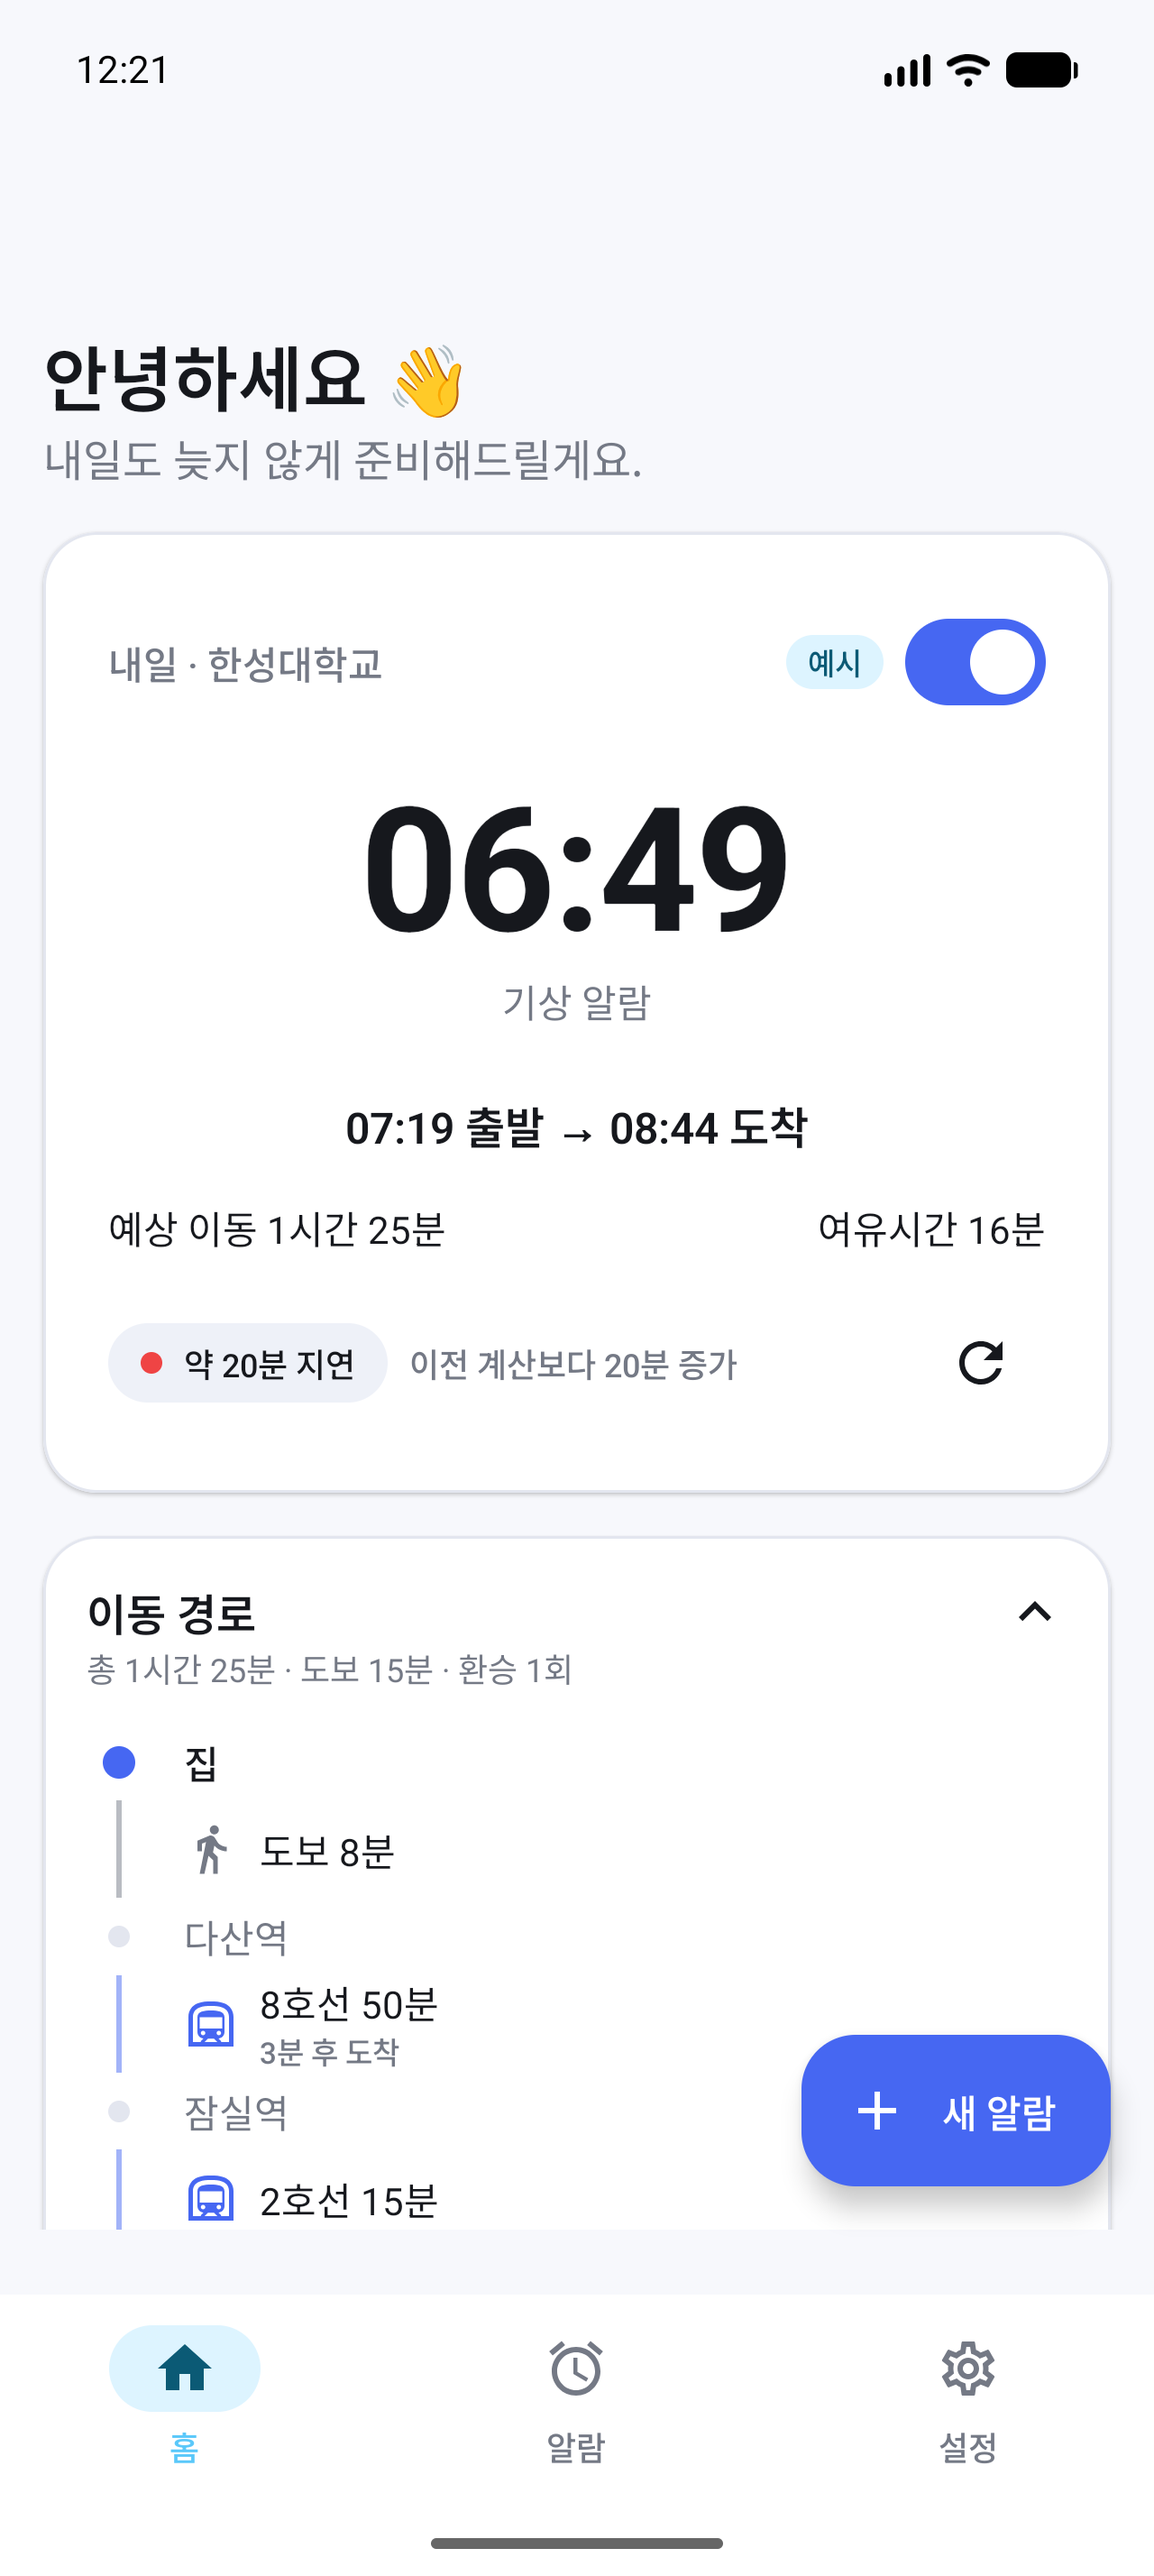
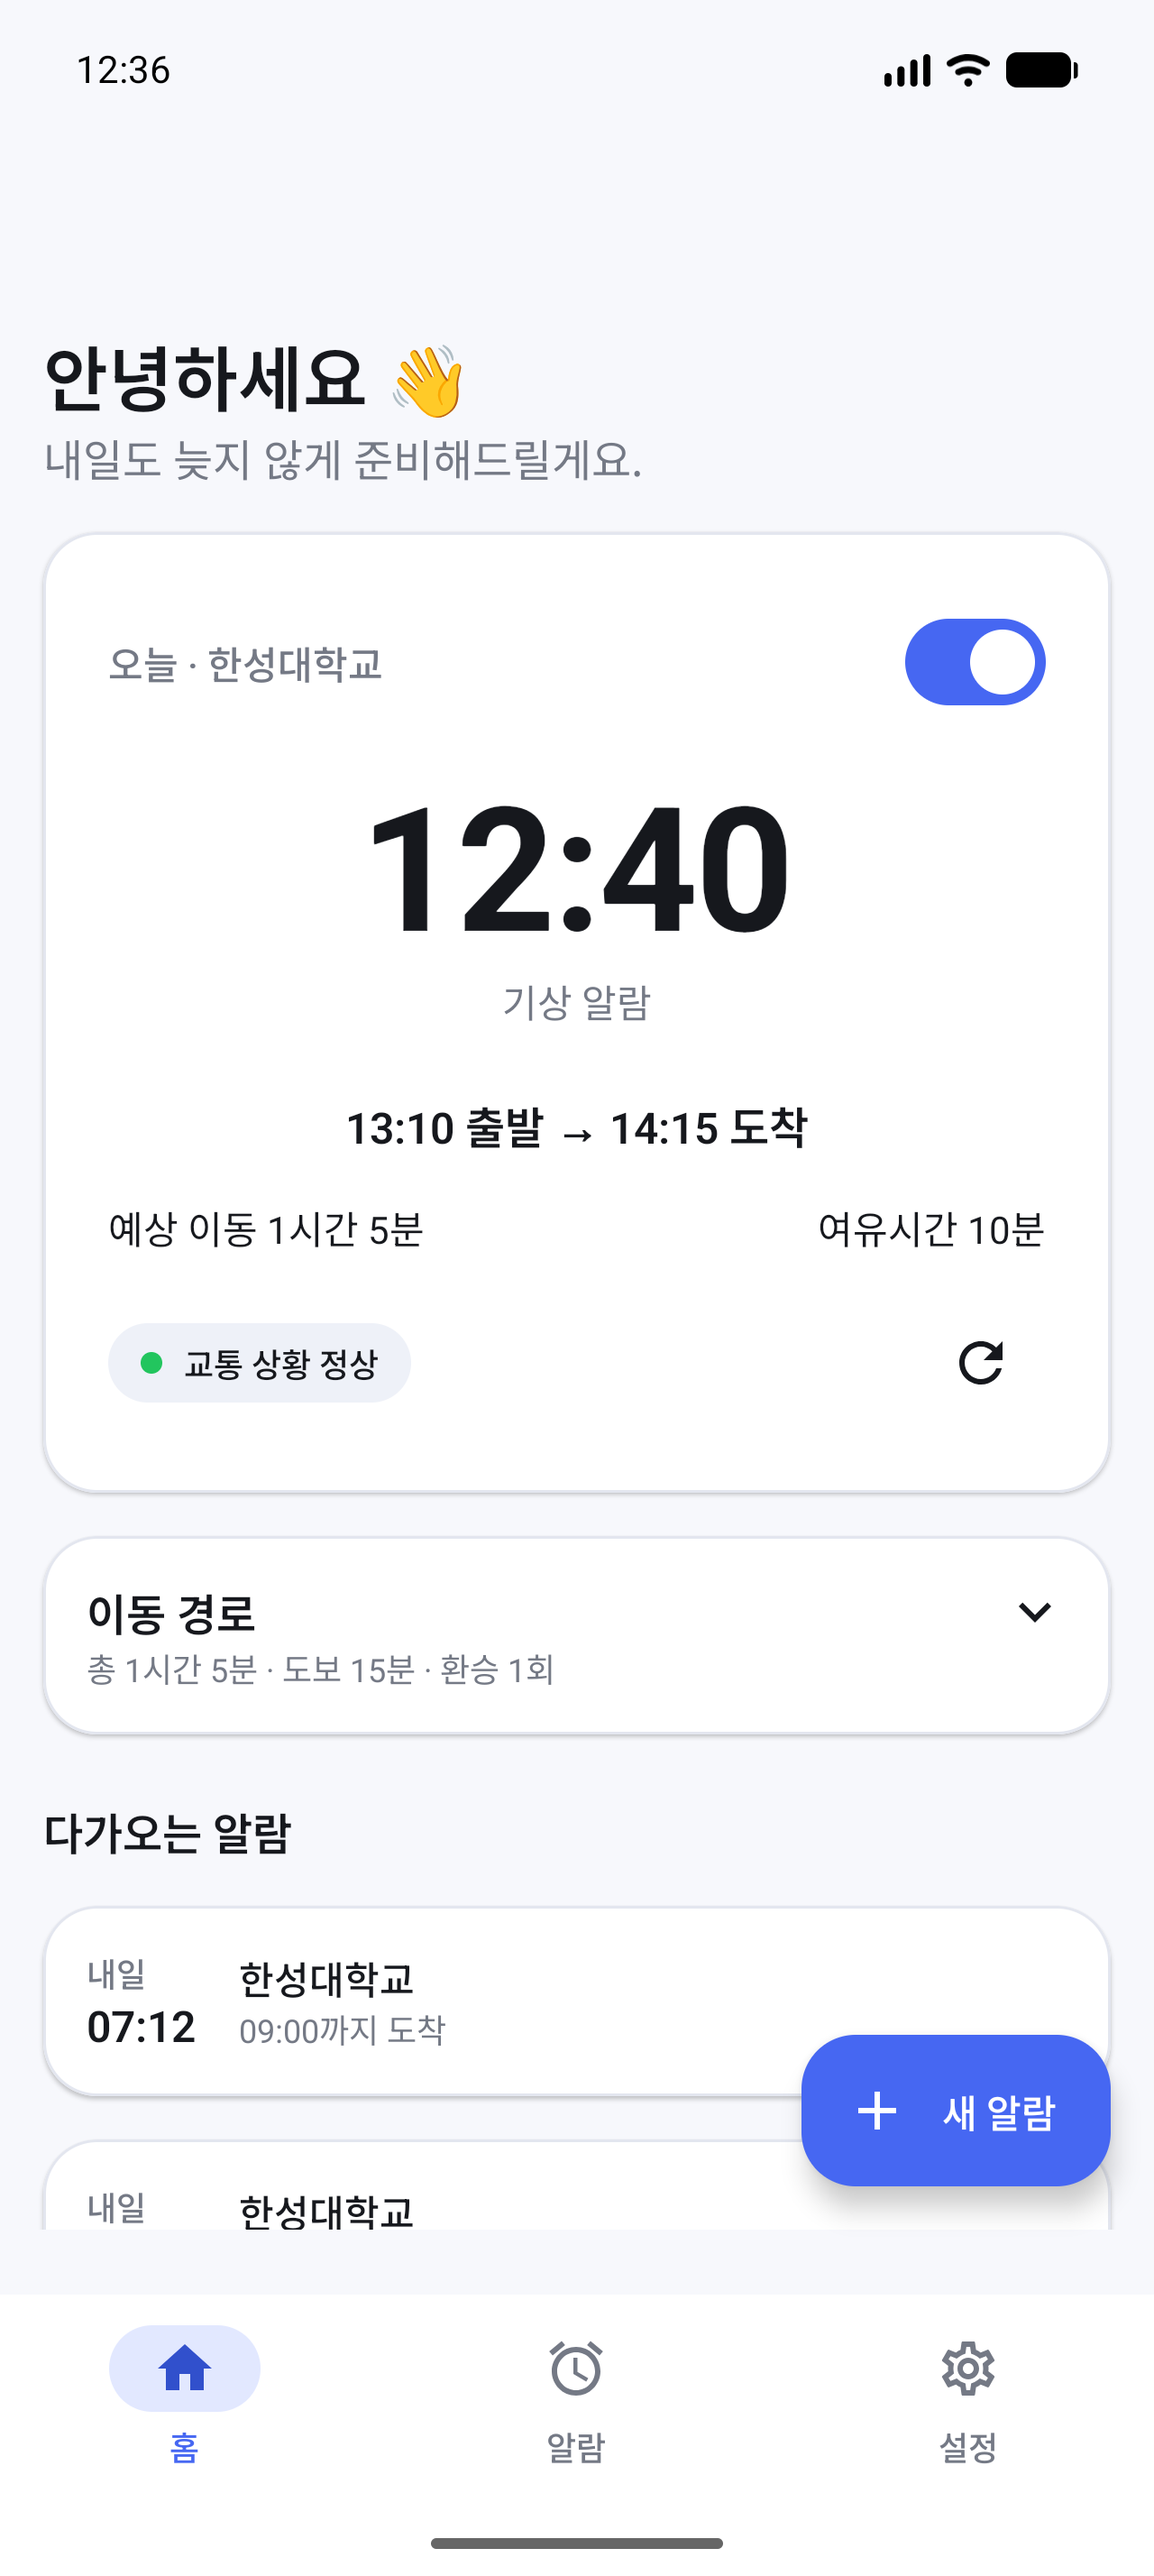
알람 화면 버튼 색상, 업데이트 직후 Splash 고정 문제 수정; 스크린샷 추가

diff --git a/app/src/main/java/com/example/routealarm/alarm/service/AlarmRingingActivity.kt b/app/src/main/java/com/example/routealarm/alarm/service/AlarmRingingActivity.kt
@@ -20,8 +20,13 @@ import androidx.compose.foundation.layout.padding
 import androidx.compose.foundation.layout.size
 import androidx.compose.material.icons.Icons
 import androidx.compose.material.icons.outlined.Alarm
+import androidx.compose.foundation.BorderStroke
+import androidx.compose.foundation.layout.height
+import androidx.compose.material3.Button
+import androidx.compose.material3.ButtonDefaults
 import androidx.compose.material3.Icon
 import androidx.compose.material3.MaterialTheme
+import androidx.compose.material3.OutlinedButton
 import androidx.compose.material3.Text
 import androidx.compose.runtime.Composable
 import androidx.compose.runtime.LaunchedEffect
@@ -34,8 +39,6 @@ import androidx.compose.ui.text.style.TextAlign
 import androidx.compose.ui.unit.dp
 import androidx.lifecycle.compose.collectAsStateWithLifecycle
 import com.example.routealarm.R
-import com.example.routealarm.core.designsystem.component.PrimaryButton
-import com.example.routealarm.core.designsystem.component.SecondaryButton
 import com.example.routealarm.core.designsystem.theme.RouteAlarmTheme
 import com.example.routealarm.core.designsystem.theme.Spacing
 import com.example.routealarm.presentation.common.TimeFormat
@@ -124,16 +127,27 @@ fun AlarmRingingScreen(state: AlarmRingingUiState, onSnooze: () -> Unit, onDismi
             )
         }
         Spacer(Modifier.height(Spacing.xxl))
-        PrimaryButton(
-            text = stringResource(R.string.ring_dismiss),
+        // 배경이 primary 색이므로 공통 PrimaryButton(primary 배경) 대신 반전된 색을 쓴다.
+        Button(
             onClick = onDismiss,
-            modifier = Modifier.fillMaxWidth(),
-        )
+            modifier = Modifier.fillMaxWidth().height(56.dp),
+            shape = MaterialTheme.shapes.medium,
+            colors = ButtonDefaults.buttonColors(
+                containerColor = MaterialTheme.colorScheme.onPrimary,
+                contentColor = MaterialTheme.colorScheme.primary,
+            ),
+        ) {
+            Text(stringResource(R.string.ring_dismiss), style = MaterialTheme.typography.titleMedium)
+        }
         Spacer(Modifier.height(Spacing.sm))
-        SecondaryButton(
-            text = stringResource(R.string.ring_snooze_format, state.snoozeMinutes),
+        OutlinedButton(
             onClick = onSnooze,
-            modifier = Modifier.fillMaxWidth(),
-        )
+            modifier = Modifier.fillMaxWidth().height(56.dp),
+            shape = MaterialTheme.shapes.medium,
+            border = BorderStroke(1.dp, MaterialTheme.colorScheme.onPrimary),
+            colors = ButtonDefaults.outlinedButtonColors(contentColor = MaterialTheme.colorScheme.onPrimary),
+        ) {
+            Text(stringResource(R.string.ring_snooze_format, state.snoozeMinutes), style = MaterialTheme.typography.titleMedium)
+        }
     }
 }

diff --git a/app/src/main/java/com/example/routealarm/MainActivity.kt b/app/src/main/java/com/example/routealarm/MainActivity.kt
@@ -24,11 +24,12 @@ class MainActivity : ComponentActivity() {
     private var requestedScheduleId by mutableStateOf<Long?>(null)
 
     override fun onCreate(savedInstanceState: Bundle?) {
-        val splash = installSplashScreen()
+        installSplashScreen()
         super.onCreate(savedInstanceState)
         enableEdgeToEdge()
-        // 설정(온보딩 여부/테마)이 로드될 때까지만 Splash 유지
-        splash.setKeepOnScreenCondition { viewModel.uiState.value.isLoading }
+        // setKeepOnScreenCondition 은 쓰지 않는다. 앱 업데이트 직후 시스템이 Activity 를 되살리는 경로에서
+        // Splash 창이 제거되지 않고 남는 현상을 에뮬레이터에서 확인했다. 설정 로딩은 수 ms 라서
+        // Compose 쪽에서 isLoading 동안 아무것도 그리지 않는 것으로 충분하다.
         requestedScheduleId = intent.scheduleIdOrNull()
 
         setContent {
